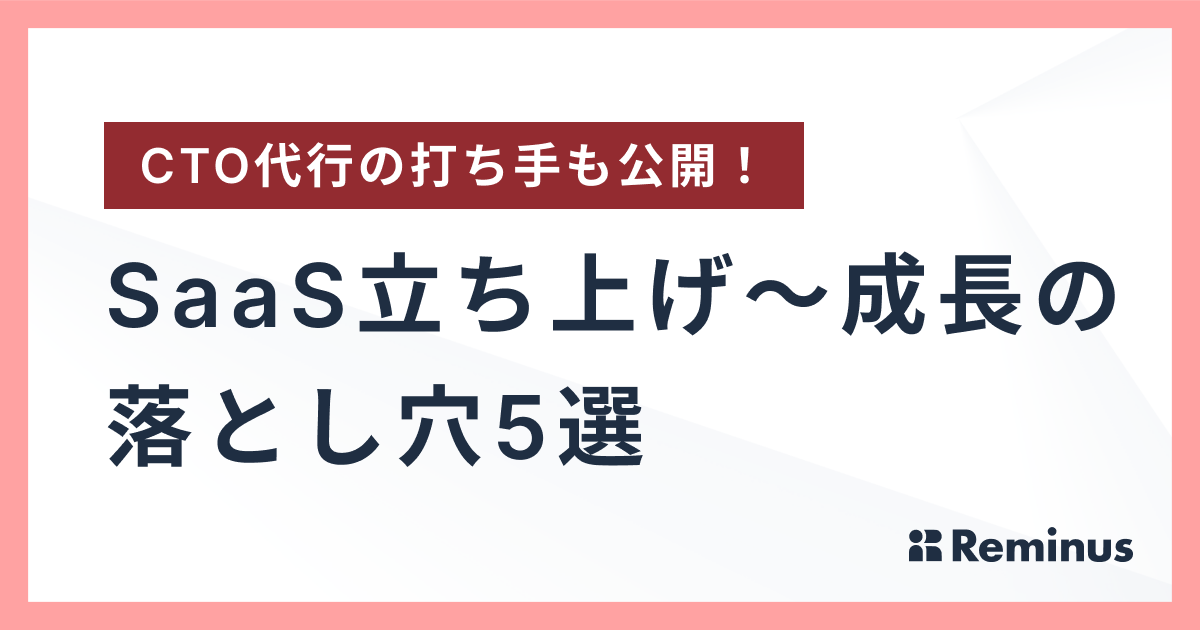
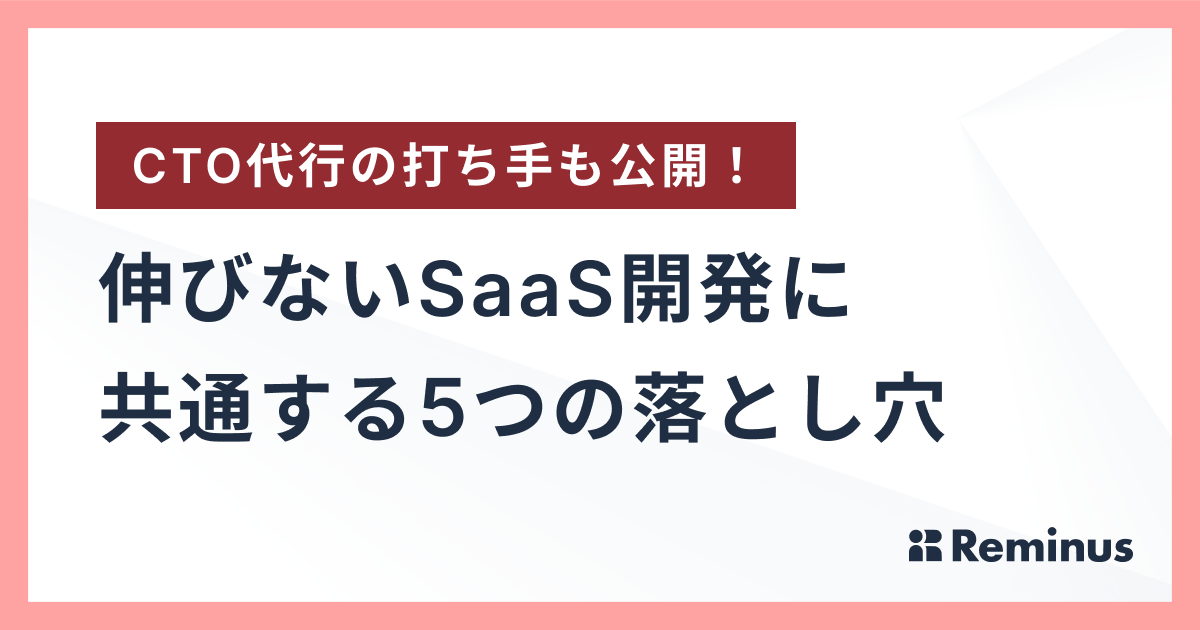
feat: 関連記事の記事ごと指定対応 + saas-startup-pitfalls-5 の調整
- Article.relatedSlugs を追加し、page.tsx の RELATED セクションを
  記事ごと指定 (未指定なら従来通り日付順上位3) に
- セクション見出し「その他の記事」→「関連記事」に統一
- saas-startup-pitfalls-5: 本文末尾の関連記事リストを剥がし
  relatedSlugs に移動、本文/タイトル/サムネを更新

Changed region(s): [[0.0617, 0.3921, 0.9558, 0.5429], [0.0617, 0.573, 0.8017, 0.754], [0.0617, 0.181, 0.6783, 0.3317]]

diff --git a/src/app/blog/[slug]/page.tsx b/src/app/blog/[slug]/page.tsx
@@ -51,9 +51,11 @@ export default async function BlogArticlePage({
   const article = getArticleBySlug(slug);
   if (!article) notFound();
 
-  const relatedArticles = articles
-    .filter((a) => a.slug !== article.slug)
-    .slice(0, 3);
+  const relatedArticles = article.relatedSlugs
+    ? article.relatedSlugs
+        .map((slug) => articles.find((a) => a.slug === slug))
+        .filter((a): a is (typeof articles)[number] => !!a)
+    : articles.filter((a) => a.slug !== article.slug).slice(0, 3);
 
   const jsonLd = [
     {
@@ -188,7 +190,7 @@ export default async function BlogArticlePage({
             </p>
           </div>
           <h2 className="mt-4 text-xl font-bold tracking-wider text-gray-800 md:text-2xl">
-            その他の記事
+            関連記事
           </h2>
           <div className="mt-10 grid grid-cols-1 sm:grid-cols-2 lg:grid-cols-3">
             {relatedArticles.map((related) => (

diff --git a/src/app/blog/_articles/content/saas-startup-pitfalls-5.ts b/src/app/blog/_articles/content/saas-startup-pitfalls-5.ts
@@ -4,11 +4,16 @@ import type { Article } from "../types";
 export const article: Article = {
   slug: "saas-startup-pitfalls-5",
   noteKey: "",
-  title: "CTO代行支援先で見たSaaS立ち上げ〜成長期の落とし穴 5選",
+  title: "SaaS立ち上げ〜成長期に陥る製品開発5つの落とし穴！対処方法も解説",
   description:
     "CTO代行としてSaaS企業の立ち上げ〜成長期に並走する中で繰り返し目にしてきた、5つの典型的な落とし穴を整理。開発スコープの取り方からエンジニアへの指示粒度まで、開発・営業・CSを俯瞰した視点で原因と抜け方を解説します。",
   publishedAt: "2026-05-17T00:00:00.000Z",
   publishedAtLabel: "2026/05/17",
   thumbnail: "/blog/saas-startup-pitfalls-5/thumbnail.png",
-  contentHtml: `<p>SaaSの立ち上げ〜成長期では、開発や技術の課題が、<strong>営業やCSなどのフロント組織、事業計画と複雑に絡み合います</strong>。</p><p>たとえば、開発スコープをどう決めるかは、<strong>営業開始のタイミング</strong>に影響します。<br>顧客要望にどこまで応えるかは、<strong>CSの負荷やプロダクトの差別化</strong>に影響します。</p><p>Reminusは、<strong>CTO代行としてSaaS企業の現場に入り</strong>、非エンジニアの経営者や事業責任者とともに<strong>プロダクト戦略、開発体制、技術意思決定、営業・CSとの連携</strong>まで整理してきました。</p><p>本記事では、その中で繰り返し目にしてきた、<strong>SaaS立ち上げ〜成長期に陥りやすい5つの落とし穴</strong>を紹介します。</p><h2>この記事のポイント</h2><ul><li>SaaS立ち上げ〜成長期で陥りやすい5つの落とし穴を整理</li><li>各落とし穴について「何が起きる／なぜ起きる／どう抜ける」を具体的に解説</li><li>開発・技術の課題に加え、営業・CSまで経営視点で俯瞰した落とし穴も整理</li></ul><h2>落とし穴1：開発スコープが広すぎたり、細部にこだわりすぎる</h2><p>立ち上げ初期に最もよくあるのが、<strong>リリースまでの開発スコープが膨らむパターン</strong>と、<strong>1機能を必要以上に磨き続けるパターン</strong>の2つです。</p><figure><img src="/blog/saas-startup-pitfalls-5/pitfall-1.png" alt="落とし穴1：開発スコープが広すぎたり、細部にこだわりすぎる"/><figcaption></figcaption></figure><h3>何が起きているか</h3><table><thead><tr><th>パターン</th><th>典型的な現象</th></tr></thead><tbody><tr><td>スコープが広すぎる</td><td>「あれもこれも」と機能を盛り込み、市場投入や営業開始が半年〜1年遅れる</td></tr><tr><td>細部にこだわりすぎる</td><td>UIや細部の質を高めるために数ヶ月を費やす</td></tr></tbody></table><p>立ち上げ期に重要なのは、<strong>できるだけ早く市場に向き合い、学習を回すこと</strong>です。</p><p>展示会や紹介など、さまざまな接点で見込み顧客に営業やインタビューを行い、<strong>そこで得た反応をもとにプロダクトの方向性を軌道修正し続ける</strong>必要があります。</p><p>開発のハードルを上げすぎて市場投入や営業開始が遅れると、<strong>方向性が誤った状態のまま資金だけを消費する</strong>状況につながります。</p><p>特に、株式で資金調達しているスタートアップの場合は、<strong>2年といった限られたランウェイの中で、何回市場から学習を回せるかが勝負</strong>になります。</p><p>スタートアップでなくとも、こうした急成長スタートアップと競争する点で<strong>時間が重要である点は同じ</strong>です。いずれにせよ、<strong>立ち上げ初期は少しでも早く市場に向き合うべき</strong>です。</p><h3>なぜ起きるのか</h3><p>よくある原因は2つあります。</p><ul><li><strong>外部から見たときの見栄えを気にしすぎる</strong>：商談で失望されるのではないかという不安が、市場投入や営業開始を遅らせてしまう</li><li><strong>経営者本人に営業への苦手意識がある</strong>：営業に出ていきたくないために、無意識のうちに開発に時間をかけてしまう</li></ul><aside style="background:#fffbeb;border-left:4px solid #f59e0b;padding:18px 22px;margin:28px 0;border-radius:4px;"><p style="margin:0;color:#78350f;">💡 <strong style="color:#78350f;">大前提</strong><br/>営業が苦手な組織で<strong style="color:#78350f;">SaaSが伸びるケースは、多くありません</strong>。経営者や事業責任者本人がどうしても営業を苦手とする場合、<strong style="color:#78350f;">営業に強いコアメンバーやCOOの採用</strong>も検討すべきです。<br/>逆に、経営者自身が営業ができて製品も統括している場合、受注率も上がり製品PDCAも回せるため、<strong style="color:#78350f;">大きなアドバンテージ</strong>になります。</p></aside><h3>どう抜けるか</h3><p>初回リリースのスコープは、<strong>「受注に必要なもの」</strong>と<strong>「コンセプトとして他社と違うもの」</strong>に絞ります。</p><p>例えば、立ち上げ初期で<strong>こだわりがちだが実のところ捨てていい代表的な機能</strong>は次のとおりです。</p><ul><li>請求・決済</li><li>権限制御</li><li>ユーザーカスタマイズ</li><li>管理画面</li></ul><p>こうした、<strong>「どんなSaaSにも同じようにある画面」</strong>や、<strong>オペレーションでカバーすればよい機能</strong>は、基本的には初回リリースまでには不要です。</p><p>初回リリースのスコープが「気づいたら膨らんでいた」というパターンは、過去記事「<a href="https://www.reminus.co.jp/blog/mvp-vs-maximum">MVP、気づいたら Maximum になってませんか？</a>」でも詳しく整理しています。</p><h2>落とし穴2：口コミやバズりに期待し、運用の仕組み化に走りすぎる</h2><p>上記とも関連性があるのが、<strong>「口コミやバズりで一気に伸びるのではないか」</strong>といった期待です。</p><p>この期待は、<strong>経営者を地に足のついた営業活動から遠ざける</strong>だけでなく、<strong>最初から運用の仕組み化に時間を使いすぎる原因</strong>にもなります。</p><h3>何が起きているか</h3><p>特に多いのが、以下のような<strong>「先回り自動化」</strong>です。</p><ul><li>サインアップの自動化・フリーミアム・フリートライアル</li><li>請求・決済機能の開発</li><li>チャットボットの導入</li><li>ヘルプページやFAQの自動生成</li></ul><p>これらに最初からリソースを投下することは、<strong>市場投入を遅らせる</strong>うえに、<strong>顧客との深い向き合いを避けることにもつながり</strong>、市場の反応を敏感に掴むことが難しくなります。</p><figure><img src="/blog/saas-startup-pitfalls-5/pitfall-2.png" alt="立ち上げ期の理想と現実：楽観的な思い込みと、地道に手運用で向き合う現実のギャップ"/><figcaption></figcaption></figure><h3>なぜ起きるのか</h3><p>BtoBは<strong>購買が組織判断</strong>であり、<strong>SNSの拡散や個人の口コミだけで意思決定が動くことは稀</strong>です。</p><p>それにも関わらず、<strong>受け身なスケールを期待する楽観的な思考</strong>が、運用の自動化を急がせてしまいます。</p><p>加えて、<strong>顧客単価を低く設定しすぎている</strong>ことが、<strong>「丁寧に営業していられないからスケールを狙おう」</strong>という判断につながる場合もあります。</p><aside style="background:#fffbeb;border-left:4px solid #f59e0b;padding:18px 22px;margin:28px 0;border-radius:4px;"><p style="margin:0;color:#78350f;">💡 <strong style="color:#78350f;">誤解の構造</strong><br/>toBプロダクトの立ち上げにおいて、<strong style="color:#78350f;">口コミやバズりで伸びる現象はほぼ起きない</strong>と考えたほうが安全です。</p></aside><h3>どう抜けるか</h3><p>特に初期ほど<strong>営業やカスタマーサクセスの運用を丁寧に行い</strong>、<strong>ハイタッチで受注〜オンボーディング〜契約更新を成立させます</strong>。</p><p>アカウント発行や初期設定、データ登録などのSaaS運用についても、<strong>カスタマーサクセス・エンジニアが手運用でサポートに入る方向</strong>に振り切ります。</p><p>こうした一見泥臭い顧客への向き合いが、<strong>顧客フィードバックも回収し、プロダクトを強化</strong>することにもつながります。</p><p>また、顧客単価も、<strong>上記オペレーションのために人を雇うとしてもペイするように設定し直す</strong>とよいでしょう。Reminusの過去支援実績では、<strong>顧客単価が高すぎるケースより、低すぎるケースのほうが多い</strong>です。</p><table><thead><tr><th>アプローチ</th><th>効果</th></tr></thead><tbody><tr><td>自動化で薄く広く対応</td><td>立ち上げ期は機能不全。フィードバックが回収できず、契約更新もお客様次第になる</td></tr><tr><td>単価を上げて手運用に振る</td><td>フィードバック回収・契約更新・アップセルが丁寧に回せる。LTV最大化に直結</td></tr></tbody></table><h2>落とし穴3：顧客フィードバックの優先度を下げてしまう</h2><p>プロダクトが有料化でき、売上増の流れができて以降よく起きるのが、<strong>将来構想のための開発に集中しすぎて</strong>、<strong>既存顧客のフィードバックの優先度を下げてしまう</strong>パターンです。</p><p><strong>「次の市場拡大に必要な機能を入れないと」</strong>、<strong>「投資家に説明した構想を速く完成させないと」</strong>という意識で、既存顧客の声が後回しになっていきます。</p><figure><img src="/blog/saas-startup-pitfalls-5/pitfall-3.png" alt="落とし穴3：顧客フィードバックの優先度を下げてしまう"/><figcaption></figcaption></figure><h3>何が起きているか</h3><ul><li>経営陣が描いたプロダクトロードマップや構想に開発が集中</li><li>カスタマーサクセスが回収したフィードバックがエンジニアに連携されていない</li><li>既存顧客の要望リストが管理されていない</li><li>結果として既存顧客の解約率が大きく上がり、営業利益率に大打撃を与えてしまう</li></ul><h3>なぜ起きるのか</h3><p>1つの原因は、<strong>顧客からのフィードバックの価値を低く見積もっている</strong>ことです。</p><p>実は顧客フィードバックへの対応は、SaaS経営において<strong>2つの価値を同時に取れる活動</strong>です。</p><table><thead><tr><th>価値</th><th>効く場面</th></tr></thead><tbody><tr><td>既存顧客のLTVによる利益率改善</td><td>契約更新・アップセル・解約防止</td></tr><tr><td>市場ペインの発掘</td><td>個別の要望から市場の洞察を発見</td></tr></tbody></table><aside style="background:#fffbeb;border-left:4px solid #f59e0b;padding:18px 22px;margin:28px 0;border-radius:4px;"><p style="margin:0;color:#78350f;">💡 <strong style="color:#78350f;">ポイント</strong><br/>特に既存事業のないスタートアップの場合、<strong style="color:#78350f;">強固な技術資産・特許・既存顧客網を最初から持っているケースは少なく</strong>、いわゆるモートを典型的な形で築くことは簡単ではありません。<br/>AIによって模倣も容易な昨今、<strong style="color:#78350f;">顧客の声に向き合い続け、顧客を大事にし続ける姿勢の再現性</strong>を示すことが、スタートアップにとって重要なモートになるとReminusは考えています。</p></aside><p>加えて、<strong>組織の構造として、フィードバックを収集・管理する仕組みが整っていない</strong>ケースもよくあります。</p><p>たとえば、<strong>問い合わせフォームから届いた顧客要望がカスタマーサクセスのメールボックスに溜まり、そのまま放置されている</strong>ような状態です。</p><h3>どう抜けるか</h3><p>まずは、<strong>顧客フィードバックを収集・整理・開発連携する業務フローを整える</strong>ことが重要です。</p><p><strong>経営者やプロダクトマネージャ、カスタマーサクセスが一度重要度を仕分けし、意思を持ってエンジニアに連携する</strong>のがよいでしょう。</p><p>また、顧客フィードバックはフォームなどで直接送信してもらう方法もありますが、<strong>カスタマーサクセスが聞き取った内容を社内で上げるほうが</strong>、組織として積極的な要望対応につながりやすくなります。</p><p>ストックビジネスであるSaaSでは、<strong>かけた広告費に対してどれだけLTVを高められるかが非常に重要</strong>です。</p><p>解約率が高くLTVが低ければ、<strong>新規受注と解約が均衡し、すぐにARRは頭打ちになります</strong>。半年や1年契約の場合、気づくのが遅れるのも恐ろしいポイントです。顧客要望への対応を社内で盛り上げ、<strong>スピード感を持って動くことで、契約更新やアップセルにつなげる</strong>ことが重要です。</p><h2>落とし穴4：顧客要望対応ばかりでプロダクトに意思がない</h2><p>落とし穴3とは<strong>逆方向の落とし穴</strong>もあります。</p><p>既存顧客の要望に応え続けることは重要ですが、多くの場合、<strong>それだけではビジネスとしての成長は不足</strong>します。</p><p>新規営業や既存顧客の要望対応ばかりが続き、<strong>半年・1年経ってもプロダクトに大きな進化が起きない</strong>、というパターンがあります。</p><figure><img src="/blog/saas-startup-pitfalls-5/pitfall-4.png" alt="落とし穴4：顧客要望対応ばかりでプロダクトに意思がない"/><figcaption></figcaption></figure><h3>何が起きているか</h3><ul><li>機能リリースのほとんどが既存顧客向けのマイナーアップデート</li><li>半年〜2年経っても、大玉機能や新しい提供価値が増えていない</li><li>「何のためのプロダクトなのか」の解答が社内でもバラバラ</li></ul><h3>なぜ起きるのか</h3><p><strong>長期的な構想やビジョンが経営側に欠けている</strong>ために起きます。</p><p>これは、スタートアップよりも、<strong>既存企業のSaaS立ち上げやオーナー企業</strong>で、<strong>事業計画などが深く練られていない状態</strong>で発生する場合が多いです。</p><p><strong>3年後・5年後にどんな市場でどう勝つのか</strong>。<strong>社会にどのような変化を起こしたいのか</strong>。</p><p>こうした問いが言語化されていないと、<strong>足元の要望対応以外に「やること」が思いつかなくなります</strong>。</p><h3>どう抜けるか</h3><p>抜け方の一つの方法は、事業計画上のARR（売上）を<strong>顧客単価×顧客数</strong>や製品ライン別にしっかりブレイクダウンし、<strong>現状とのギャップを測る</strong>ことです。</p><table><thead><tr><th>不足要素</th><th>必要な開発の方向性</th></tr></thead><tbody><tr><td>顧客数が足りない</td><td>市場拡大のための開発（新規セグメント開拓、外部連携の強化、業界特化機能の開発など）</td></tr><tr><td>顧客単価が足りない</td><td>上位プランにつながる機能開発、エンタープライズ向け強化など</td></tr></tbody></table><p>ビジョンが明確にあるなら、<strong>やりたい世界観を分解して開発アイテムに落とし込む形</strong>でも構いません。いずれにせよ、<strong>トップダウンで市場戦略・製品戦略を考える時間を経営陣が意識的に割く</strong>必要があります。</p><aside style="background:#fffbeb;border-left:4px solid #f59e0b;padding:18px 22px;margin:28px 0;border-radius:4px;"><p style="margin:0;color:#78350f;">💡 <strong style="color:#78350f;">ポイント</strong><br/>前述の落とし穴3「顧客フィードバックの優先度を下げてしまう」と真逆のように見えるかもしれませんが、<strong style="color:#78350f;">本質的には同じ問題</strong>だと考えています。<br/>ビジョンを持つためにも、<strong style="color:#78350f;">顧客や業界への解像度は欠かせません</strong>。市場や顧客の声と向き合い続けたうえで、<strong style="color:#78350f;">「何を実現し、何を実現しないか」を経営側が意思決定</strong>することで、落とし穴を回避できると考えています。</p></aside><h2>落とし穴5：エンジニアへの指示が細かすぎる</h2><p>やりたいことは十二分にあるのに実行が進まない、といった組織に多いのが、<strong>技術を理解していない経営層やビジネスサイド</strong>が、<strong>エンジニアや外注先に必要以上に細かい指示を出してしまう</strong>パターンです。</p><p>特に、AIによりドキュメント生成が容易になったことから、<strong>「このデータベースの設計はこう」</strong>、<strong>「この技術を利用したい」</strong>と、開発の詳細まで踏み込んでしまいやすくなります。</p><p>結果、<strong>的はずれなケースが多発したり、開発に必要以上に時間がかかります</strong>。</p><figure><img src="/blog/saas-startup-pitfalls-5/pitfall-5.png" alt="落とし穴5：エンジニアへの指示が細かすぎる"/><figcaption></figcaption></figure><h3>何が起きているか</h3><ul><li>不安でエンジニアに設計を任せられない</li><li>その結果、開発スピードが落ちたり、設計が悪化する</li><li>エンジニアの離職リスクが上がる</li></ul><h3>なぜ起きるのか</h3><p>多くの場合、<strong>不安を細かい指示で埋めようとしている</strong>のが原因です。</p><p><strong>任せきれない</strong>、<strong>想定外の挙動が出るのが怖い</strong>、<strong>自分の理解の範囲外で動かれることへの不安</strong>から、本来エンジニアに任せていい設計判断に経営側が踏み込まざるを得なくなります。</p><p>また、実際問題として<strong>エンジニアや外注先のスキルが問題で任せきれない</strong>、という場合もあります。</p><h3>どう抜けるか</h3><p>指示の粒度を<strong>Why（なぜ作るのか）</strong>と<strong>What（何を作りたいか）</strong>に絞ります。WhyとWhatをしっかり伝えることが、エンジニアが将来も対応可能な適切な設計をしてくれるようになる<strong>一番の近道</strong>です。</p><table><thead><tr><th>指示の粒度</th><th>企画側の責任</th><th>エンジニア側の責任</th></tr></thead><tbody><tr><td>Why（事業上の意図）</td><td>◎</td><td>─</td></tr><tr><td>What（達成したい体験・成果）</td><td>◎</td><td>─</td></tr><tr><td>How（技術選定・設計・実装）</td><td>─</td><td>◎</td></tr></tbody></table><p>また、エンジニアや外注先が頼りない場合や、技術力が判断できない場合には、<strong>外部の顧問などに第三者の目線で判断してもらう方法</strong>もあります。</p><p>Reminusが提供しているCTO代行でも、<strong>上記の診断が可能</strong>で、加えて技術判断や全体設計の統括も可能です。</p><h2>まとめ：自社のSaaS立ち上げを見直すきっかけに</h2><p>本記事で紹介した5つの落とし穴を整理すると、以下のとおりです。</p><table><thead><tr><th>落とし穴</th><th>フェーズ</th><th>本質</th></tr></thead><tbody><tr><td>落とし穴1：開発スコープが広すぎる／細部こだわりすぎる</td><td>新規プロダクト立ち上げ</td><td>市場へ向き合うこと、それによる学習サイクルの軽視</td></tr><tr><td>落とし穴2：口コミ・バズり期待で仕組み化</td><td>新規プロダクト立ち上げ</td><td>楽観的な事業スケールの幻想</td></tr><tr><td>落とし穴3：顧客フィードバックの優先度を下げる</td><td>プロダクトリリース後〜PMF</td><td>視点が短期的すぎる、チャーンレートやクロスセルアップセルの軽視</td></tr><tr><td>落とし穴4：顧客要望対応ばかりで意思がない</td><td>プロダクトリリース後〜全般</td><td>ビジョンや戦略、事業計画の欠如</td></tr><tr><td>落とし穴5：エンジニアへの指示が細かすぎる</td><td>全般</td><td>技術に対する不安、開発体制</td></tr></tbody></table><p>5つの落とし穴を俯瞰すると、SaaSの立ち上げ〜成長期には<strong>開発スコープ・運用設計・顧客フィードバック・ビジョン・開発組織</strong>と、経営の主体的な意思決定が必要なことが分かります。</p><p>そして、いずれの落とし穴も、<strong>「分かっていれば避けられる」</strong>類の問題ではなく、<strong>事業フェーズや経営判断のクセに紐づく</strong>ものです。だからこそ、知識として把握しているだけでは不十分で、自社の現状に照らして定期的に棚卸しすることが重要になります。</p><p>まずは、本記事の5つの落とし穴のうち、<strong>自社で1つでも当てはまるものがないか</strong>洗い出してみるとよいでしょう。1つ見つかれば、そこからプロダクトと組織の両面で改善余地が見えてくるはずです。</p><aside style="background:#ecfdf5;border-left:4px solid #10b981;padding:18px 22px;margin:28px 0;border-radius:4px;"><p style="margin:0;color:#065f46;">💬 <strong style="color:#065f46;">「自社にも当てはまる落とし穴があるが、自社だけで全部を判断するのは難しい」</strong><br/>そう感じる経営者の方も多いはずです。</p></aside><p>Reminusは、こうした論点を<strong>一緒に整理する立場</strong>として、SaaS立ち上げ〜グロースしたい企業様に、CTO代行を提供しています。</p><p>本記事の落とし穴に心当たりがある方は、まずは<strong>サービス資料</strong>でReminusの全体像を掴んでいただければ幸いです。<strong>無料相談</strong>で今週中に個別の論点を一緒に整理することもできます。お気軽にお問い合わせください。</p><h3>関連記事</h3><ul><li><a href="https://www.reminus.co.jp/blog/mvp-vs-maximum">MVP、気づいたら Maximum になってませんか？</a></li><li><a href="https://www.reminus.co.jp/blog/saas-ai-survival">「SaaSの死」は本当か？AI時代に生き残るSaaSとは</a></li><li><a href="https://www.reminus.co.jp/blog/why-fractional-cto-for-startups">CTO代行がなぜ日本のスタートアップに必要なのか</a></li></ul>`,
+  relatedSlugs: [
+    "mvp-vs-maximum",
+    "saas-ai-survival",
+    "why-fractional-cto-for-startups",
+  ],
+  contentHtml: `<p>SaaSの立ち上げ〜成長期では、開発や技術の課題が、<strong>営業やCSなどのフロント組織、事業計画と複雑に絡み合います</strong>。</p><p>たとえば、開発スコープをどう決めるかは、<strong>営業開始のタイミング</strong>に影響します。<br>顧客要望にどこまで応えるかは、<strong>CSの負荷やプロダクトの差別化</strong>に影響します。</p><p>Reminusは、<strong>CTO代行としてSaaS企業の現場に入り</strong>、非エンジニアの経営者や事業責任者とともに<strong>プロダクト戦略、開発体制、技術意思決定、営業・CSとの連携</strong>まで整理してきました。</p><p>本記事では、その中で繰り返し目にしてきた、<strong>SaaS立ち上げ〜成長期に陥りやすい5つの落とし穴</strong>を紹介します。</p><h2>この記事のポイント</h2><ul><li>SaaS立ち上げ〜成長期で陥りやすい5つの落とし穴を整理</li><li>各落とし穴について「何が起きる／なぜ起きる／どう抜ける」を具体的に解説</li><li>開発・技術の課題に加え、営業・CSまで経営視点で俯瞰した落とし穴も整理</li></ul><h2>落とし穴1：開発スコープが広すぎたり、細部にこだわりすぎる</h2><p>立ち上げ初期に最もよくあるのが、<strong>リリースまでの開発スコープが膨らむパターン</strong>と、<strong>1機能を必要以上に磨き続けるパターン</strong>の2つです。</p><figure><img src="/blog/saas-startup-pitfalls-5/pitfall-1.png" alt="落とし穴1：開発スコープが広すぎたり、細部にこだわりすぎる"/><figcaption></figcaption></figure><h3>何が起きているか</h3><table><thead><tr><th>パターン</th><th>典型的な現象</th></tr></thead><tbody><tr><td>スコープが広すぎる</td><td>「あれもこれも」と機能を盛り込み、市場投入や営業開始が半年〜1年遅れる</td></tr><tr><td>細部にこだわりすぎる</td><td>UIや細部の質を高めるために数ヶ月を費やす</td></tr></tbody></table><p>立ち上げ期に重要なのは、<strong>できるだけ早く市場に向き合い、学習を回すこと</strong>です。</p><p>展示会や紹介など、さまざまな接点で見込み顧客に営業やインタビューを行い、<strong>そこで得た反応をもとにプロダクトの方向性を軌道修正し続ける</strong>必要があります。</p><p>開発のハードルを上げすぎて市場投入や営業開始が遅れると、<strong>方向性が誤った状態のまま資金だけを消費する</strong>状況につながります。</p><p>特に、株式で資金調達しているスタートアップの場合は、<strong>2年といった限られたランウェイの中で、何回市場から学習を回せるかが勝負</strong>になります。</p><p>スタートアップでなくとも、こうした急成長スタートアップと競争する点で<strong>時間が重要である点は同じ</strong>です。いずれにせよ、<strong>立ち上げ初期は少しでも早く市場に向き合うべき</strong>です。</p><h3>なぜ起きるのか</h3><p>よくある原因は2つあります。</p><ul><li><strong>外部から見たときの見栄えを気にしすぎる</strong>：商談で失望されるのではないかという不安が、市場投入や営業開始を遅らせてしまう</li><li><strong>経営者本人に営業への苦手意識がある</strong>：営業に出ていきたくないために、無意識のうちに開発に時間をかけてしまう</li></ul><aside style="background:#fffbeb;border-left:4px solid #f59e0b;padding:18px 22px;margin:28px 0;border-radius:4px;"><p style="margin:0;color:#78350f;">💡 <strong style="color:#78350f;">大前提</strong><br/>営業が苦手な組織で<strong style="color:#78350f;">SaaSが伸びるケースは、多くありません</strong>。経営者や事業責任者本人がどうしても営業を苦手とする場合、<strong style="color:#78350f;">営業に強いコアメンバーやCOOの採用</strong>も検討すべきです。<br/>逆に、経営者自身が営業ができて製品も統括している場合、受注率も上がり製品PDCAも回せるため、<strong style="color:#78350f;">大きなアドバンテージ</strong>になります。</p></aside><h3>どう抜けるか</h3><p>初回リリースのスコープは、<strong>「受注に必要なもの」</strong>と<strong>「コンセプトとして他社と違うもの」</strong>に絞ります。</p><p>例えば、立ち上げ初期で<strong>こだわりがちだが実のところ捨てていい代表的な機能</strong>は次のとおりです。</p><ul><li>請求・決済</li><li>権限制御</li><li>ユーザーカスタマイズ</li><li>管理画面</li></ul><p>こうした、<strong>「どんなSaaSにも同じようにある画面」</strong>や、<strong>オペレーションでカバーすればよい機能</strong>は、基本的には初回リリースまでには不要です。</p><p>初回リリースのスコープが「気づいたら膨らんでいた」というパターンは、過去記事「<a href="https://www.reminus.co.jp/blog/mvp-vs-maximum">MVP、気づいたら Maximum になってませんか？</a>」でも詳しく整理しています。</p><h2>落とし穴2：口コミやバズりに期待し、運用の仕組み化に走りすぎる</h2><p>上記とも関連性があるのが、<strong>「口コミやバズりで一気に伸びるのではないか」</strong>といった期待です。</p><p>この期待は、<strong>経営者を地に足のついた営業活動から遠ざける</strong>だけでなく、<strong>最初から運用の仕組み化に時間を使いすぎる原因</strong>にもなります。</p><h3>何が起きているか</h3><p>特に多いのが、以下のような<strong>「先回り自動化」</strong>です。</p><ul><li>サインアップの自動化・フリーミアム・フリートライアル</li><li>請求・決済機能の開発</li><li>チャットボットの導入</li><li>ヘルプページやFAQの自動生成</li></ul><p>これらに最初からリソースを投下することは、<strong>市場投入を遅らせる</strong>うえに、<strong>顧客との深い向き合いを避けることにもつながり</strong>、市場の反応を敏感に掴むことが難しくなります。</p><figure><img src="/blog/saas-startup-pitfalls-5/pitfall-2.png" alt="立ち上げ期の理想と現実：楽観的な思い込みと、地道に手運用で向き合う現実のギャップ"/><figcaption></figcaption></figure><h3>なぜ起きるのか</h3><p>BtoBは<strong>購買が組織判断</strong>であり、<strong>SNSの拡散や個人の口コミだけで意思決定が動くことは稀</strong>です。</p><p>それにも関わらず、<strong>受け身なスケールを期待する楽観的な思考</strong>が、運用の自動化を急がせてしまいます。</p><p>加えて、<strong>顧客単価を低く設定しすぎている</strong>ことが、<strong>「丁寧に営業していられないからスケールを狙おう」</strong>という判断につながる場合もあります。</p><aside style="background:#fffbeb;border-left:4px solid #f59e0b;padding:18px 22px;margin:28px 0;border-radius:4px;"><p style="margin:0;color:#78350f;">💡 <strong style="color:#78350f;">誤解の構造</strong><br/>toBプロダクトの立ち上げにおいて、<strong style="color:#78350f;">口コミやバズりで伸びる現象はほぼ起きない</strong>と考えたほうが安全です。</p></aside><h3>どう抜けるか</h3><p>特に初期ほど<strong>営業やカスタマーサクセスの運用を丁寧に行い</strong>、<strong>ハイタッチで受注〜オンボーディング〜契約更新を成立させます</strong>。</p><p>アカウント発行や初期設定、データ登録などのSaaS運用についても、<strong>カスタマーサクセス・エンジニアが手運用でサポートに入る方向</strong>に振り切ります。</p><p>こうした一見泥臭い顧客への向き合いが、<strong>顧客フィードバックも回収し、プロダクトを強化</strong>することにもつながります。</p><p>また、顧客単価も、<strong>上記オペレーションのために人を雇うとしてもペイするように設定し直す</strong>とよいでしょう。Reminusの過去支援実績では、<strong>顧客単価が高すぎるケースより、低すぎるケースのほうが多い</strong>です。</p><table><thead><tr><th>アプローチ</th><th>効果</th></tr></thead><tbody><tr><td>自動化で薄く広く対応</td><td>立ち上げ期は機能不全。フィードバックが回収できず、契約更新もお客様次第になる</td></tr><tr><td>単価を上げて手運用に振る</td><td>フィードバック回収・契約更新・アップセルが丁寧に回せる。LTV最大化に直結</td></tr></tbody></table><h2>落とし穴3：顧客フィードバックの優先度を下げてしまう</h2><p>プロダクトが有料化でき、売上増の流れができて以降よく起きるのが、<strong>将来構想のための開発に集中しすぎて</strong>、<strong>既存顧客のフィードバックの優先度を下げてしまう</strong>パターンです。</p><p><strong>「次の市場拡大に必要な機能を入れないと」</strong>、<strong>「投資家に説明した構想を速く完成させないと」</strong>という意識で、既存顧客の声が後回しになっていきます。</p><figure><img src="/blog/saas-startup-pitfalls-5/pitfall-3.png" alt="落とし穴3：顧客フィードバックの優先度を下げてしまう"/><figcaption></figcaption></figure><h3>何が起きているか</h3><ul><li>経営陣が描いたプロダクトロードマップや構想に開発が集中</li><li>カスタマーサクセスが回収したフィードバックがエンジニアに連携されていない</li><li>既存顧客の要望リストが管理されていない</li><li>結果として既存顧客の解約率が大きく上がり、営業利益率に大打撃を与えてしまう</li></ul><h3>なぜ起きるのか</h3><p>1つの原因は、<strong>顧客からのフィードバックの価値を低く見積もっている</strong>ことです。</p><p>実は顧客フィードバックへの対応は、SaaS経営において<strong>2つの価値を同時に取れる活動</strong>です。</p><table><thead><tr><th>価値</th><th>効く場面</th></tr></thead><tbody><tr><td>既存顧客のLTVによる利益率改善</td><td>契約更新・アップセル・解約防止</td></tr><tr><td>市場ペインの発掘</td><td>個別の要望から市場の洞察を発見</td></tr></tbody></table><aside style="background:#fffbeb;border-left:4px solid #f59e0b;padding:18px 22px;margin:28px 0;border-radius:4px;"><p style="margin:0;color:#78350f;">💡 <strong style="color:#78350f;">ポイント</strong><br/>特に既存事業のないスタートアップの場合、<strong style="color:#78350f;">強固な技術資産・特許・既存顧客網を最初から持っているケースは少なく</strong>、いわゆるモートを典型的な形で築くことは簡単ではありません。<br/>AIによって模倣も容易な昨今、<strong style="color:#78350f;">顧客の声に向き合い続け、顧客を大事にし続ける姿勢の再現性</strong>を示すことが、スタートアップにとって重要なモートになるとReminusは考えています。</p></aside><p>加えて、<strong>組織の構造として、フィードバックを収集・管理する仕組みが整っていない</strong>ケースもよくあります。</p><p>たとえば、<strong>問い合わせフォームから届いた顧客要望がカスタマーサクセスのメールボックスに溜まり、そのまま放置されている</strong>ような状態です。</p><h3>どう抜けるか</h3><p>まずは、<strong>顧客フィードバックを収集・整理・開発連携する業務フローを整える</strong>ことが重要です。</p><p><strong>経営者やプロダクトマネージャ、カスタマーサクセスが一度重要度を仕分けし、意思を持ってエンジニアに連携する</strong>のがよいでしょう。</p><p>また、顧客フィードバックはフォームなどで直接送信してもらう方法もありますが、<strong>カスタマーサクセスが聞き取った内容を社内で上げるほうが</strong>、組織として積極的な要望対応につながりやすくなります。</p><p>ストックビジネスであるSaaSでは、<strong>かけた広告費に対してどれだけLTVを高められるかが非常に重要</strong>です。</p><p>解約率が高くLTVが低ければ、<strong>新規受注と解約が均衡し、すぐにARRは頭打ちになります</strong>。半年や1年契約の場合、気づくのが遅れるのも恐ろしいポイントです。顧客要望への対応を社内で盛り上げ、<strong>スピード感を持って動くことで、契約更新やアップセルにつなげる</strong>ことが重要です。</p><h2>落とし穴4：顧客要望対応ばかりでプロダクトに意思がない</h2><p>落とし穴3とは<strong>逆方向の落とし穴</strong>もあります。</p><p>既存顧客の要望に応え続けることは重要ですが、多くの場合、<strong>それだけではビジネスとしての成長は不足</strong>します。</p><p>新規営業や既存顧客の要望対応ばかりが続き、<strong>半年・1年経ってもプロダクトに大きな進化が起きない</strong>、というパターンがあります。</p><figure><img src="/blog/saas-startup-pitfalls-5/pitfall-4.png" alt="落とし穴4：顧客要望対応ばかりでプロダクトに意思がない"/><figcaption></figcaption></figure><h3>何が起きているか</h3><ul><li>機能リリースのほとんどが既存顧客向けのマイナーアップデート</li><li>半年〜2年経っても、大玉機能や新しい提供価値が増えていない</li><li>「何のためのプロダクトなのか」の解答が社内でもバラバラ</li></ul><h3>なぜ起きるのか</h3><p><strong>長期的な構想やビジョンが経営側に欠けている</strong>ために起きます。</p><p>これは、スタートアップよりも、<strong>既存企業のSaaS立ち上げやオーナー企業</strong>で、<strong>事業計画などが深く練られていない状態</strong>で発生する場合が多いです。</p><p><strong>3年後・5年後にどんな市場でどう勝つのか</strong>。<strong>社会にどのような変化を起こしたいのか</strong>。</p><p>こうした問いが言語化されていないと、<strong>足元の要望対応以外に「やること」が思いつかなくなります</strong>。</p><h3>どう抜けるか</h3><p>抜け方の一つの方法は、事業計画上のARR（売上）を<strong>顧客単価×顧客数</strong>や製品ライン別にしっかりブレイクダウンし、<strong>現状とのギャップを測る</strong>ことです。</p><table><thead><tr><th>不足要素</th><th>必要な開発の方向性</th></tr></thead><tbody><tr><td>顧客数が足りない</td><td>市場拡大のための開発（新規セグメント開拓、外部連携の強化、業界特化機能の開発など）</td></tr><tr><td>顧客単価が足りない</td><td>上位プランにつながる機能開発、エンタープライズ向け強化など</td></tr></tbody></table><p>ビジョンが明確にあるなら、<strong>やりたい世界観を分解して開発アイテムに落とし込む形</strong>でも構いません。いずれにせよ、<strong>トップダウンで市場戦略・製品戦略を考える時間を経営陣が意識的に割く</strong>必要があります。</p><aside style="background:#fffbeb;border-left:4px solid #f59e0b;padding:18px 22px;margin:28px 0;border-radius:4px;"><p style="margin:0;color:#78350f;">💡 <strong style="color:#78350f;">ポイント</strong><br/>前述の落とし穴3「顧客フィードバックの優先度を下げてしまう」と真逆のように見えるかもしれませんが、<strong style="color:#78350f;">本質的には同じ問題</strong>だと考えています。<br/>ビジョンを持つためにも、<strong style="color:#78350f;">顧客や業界への解像度は欠かせません</strong>。市場や顧客の声と向き合い続けたうえで、<strong style="color:#78350f;">「何を実現し、何を実現しないか」を経営側が意思決定</strong>することで、落とし穴を回避できると考えています。</p></aside><h2>落とし穴5：エンジニアへの指示が細かすぎる</h2><p>やりたいことは十二分にあるのに実行が進まない、といった組織に多いのが、<strong>技術を理解していない経営層やビジネスサイド</strong>が、<strong>エンジニアや外注先に必要以上に細かい指示を出してしまう</strong>パターンです。</p><p>特に、AIによりドキュメント生成が容易になったことから、<strong>「このデータベースの設計はこう」</strong>、<strong>「この技術を利用したい」</strong>と、開発の詳細まで踏み込んでしまいやすくなります。</p><p>結果、<strong>的はずれなケースが多発したり、開発に必要以上に時間がかかります</strong>。</p><figure><img src="/blog/saas-startup-pitfalls-5/pitfall-5.png" alt="落とし穴5：エンジニアへの指示が細かすぎる"/><figcaption></figcaption></figure><h3>何が起きているか</h3><ul><li>不安でエンジニアに設計を任せられない</li><li>その結果、開発スピードが落ちたり、設計が悪化する</li><li>エンジニアの離職リスクが上がる</li></ul><h3>なぜ起きるのか</h3><p>多くの場合、<strong>不安を細かい指示で埋めようとしている</strong>のが原因です。</p><p><strong>任せきれない</strong>、<strong>想定外の挙動が出るのが怖い</strong>、<strong>自分の理解の範囲外で動かれることへの不安</strong>から、本来エンジニアに任せていい設計判断に経営側が踏み込まざるを得なくなります。</p><p>また、実際問題として<strong>エンジニアや外注先のスキルが問題で任せきれない</strong>、という場合もあります。</p><h3>どう抜けるか</h3><p>指示の粒度を<strong>Why（なぜ作るのか）</strong>と<strong>What（何を作りたいか）</strong>に絞ります。WhyとWhatをしっかり伝えることが、エンジニアが将来も対応可能な適切な設計をしてくれるようになる<strong>一番の近道</strong>です。</p><table><thead><tr><th>指示の粒度</th><th>企画側の責任</th><th>エンジニア側の責任</th></tr></thead><tbody><tr><td>Why（事業上の意図）</td><td>◎</td><td>─</td></tr><tr><td>What（達成したい体験・成果）</td><td>◎</td><td>─</td></tr><tr><td>How（技術選定・設計・実装）</td><td>─</td><td>◎</td></tr></tbody></table><p>また、エンジニアや外注先が頼りない場合や、技術力が判断できない場合には、<strong>外部の顧問などに第三者の目線で判断してもらう方法</strong>もあります。</p><p>Reminusが提供しているCTO代行でも、<strong>上記の診断が可能</strong>で、加えて技術判断や全体設計の統括も可能です。</p><h2>まとめ：自社のSaaS立ち上げを見直すきっかけに</h2><p>本記事で紹介した5つの落とし穴を整理すると、以下のとおりです。</p><table><thead><tr><th>落とし穴</th><th>フェーズ</th><th>本質</th></tr></thead><tbody><tr><td>落とし穴1：開発スコープが広すぎる／細部こだわりすぎる</td><td>新規プロダクト立ち上げ</td><td>市場へ向き合うこと、それによる学習サイクルの軽視</td></tr><tr><td>落とし穴2：口コミ・バズり期待で仕組み化</td><td>新規プロダクト立ち上げ</td><td>楽観的な事業スケールの幻想</td></tr><tr><td>落とし穴3：顧客フィードバックの優先度を下げる</td><td>プロダクトリリース後〜PMF</td><td>視点が短期的すぎる、チャーンレートやクロスセルアップセルの軽視</td></tr><tr><td>落とし穴4：顧客要望対応ばかりで意思がない</td><td>プロダクトリリース後〜全般</td><td>ビジョンや戦略、事業計画の欠如</td></tr><tr><td>落とし穴5：エンジニアへの指示が細かすぎる</td><td>全般</td><td>技術に対する不安、開発体制</td></tr></tbody></table><p>5つの落とし穴を俯瞰すると、SaaSの立ち上げ〜成長期には<strong>開発スコープ・運用設計・顧客フィードバック・ビジョン・開発組織</strong>と、経営の主体的な意思決定が必要なことが分かります。</p><p>そして、いずれの落とし穴も、<strong>「分かっていれば避けられる」</strong>類の問題ではなく、<strong>事業フェーズや経営判断のクセに紐づく</strong>ものです。だからこそ、知識として把握しているだけでは不十分で、自社の現状に照らして定期的に棚卸しすることが重要になります。</p><p>まずは、本記事の5つの落とし穴のうち、<strong>自社で1つでも当てはまるものがないか</strong>洗い出してみるとよいでしょう。1つ見つかれば、そこからプロダクトと組織の両面で改善余地が見えてくるはずです。</p><aside style="background:#ecfdf5;border-left:4px solid #10b981;padding:18px 22px;margin:28px 0;border-radius:4px;"><p style="margin:0;color:#065f46;">💬 <strong style="color:#065f46;">「自社にも当てはまる落とし穴があるが、自社だけで全部を判断するのは難しい」</strong><br/>そう感じる経営者の方も多いはずです。</p></aside><p>Reminusは、こうした論点を<strong>一緒に整理する立場</strong>として、SaaS立ち上げ〜グロースしたい企業様に、CTO代行を提供しています。</p><p>本記事の落とし穴に心当たりがある方は、まずは<strong>サービス資料</strong>でReminusの全体像を掴んでいただければ幸いです。<strong>無料相談</strong>で今週中に個別の論点を一緒に整理することもできます。お気軽にお問い合わせください。</p>`,
 };

diff --git a/src/app/blog/_articles/types.ts b/src/app/blog/_articles/types.ts
@@ -9,4 +9,6 @@ export type Article = {
   publishedAtLabel: string;
   thumbnail: string;
   contentHtml: string;
+  /** 関連記事に出したい slug を明示する場合に指定。未指定なら公開日順の新しい3件にフォールバック。 */
+  relatedSlugs?: string[];
 };